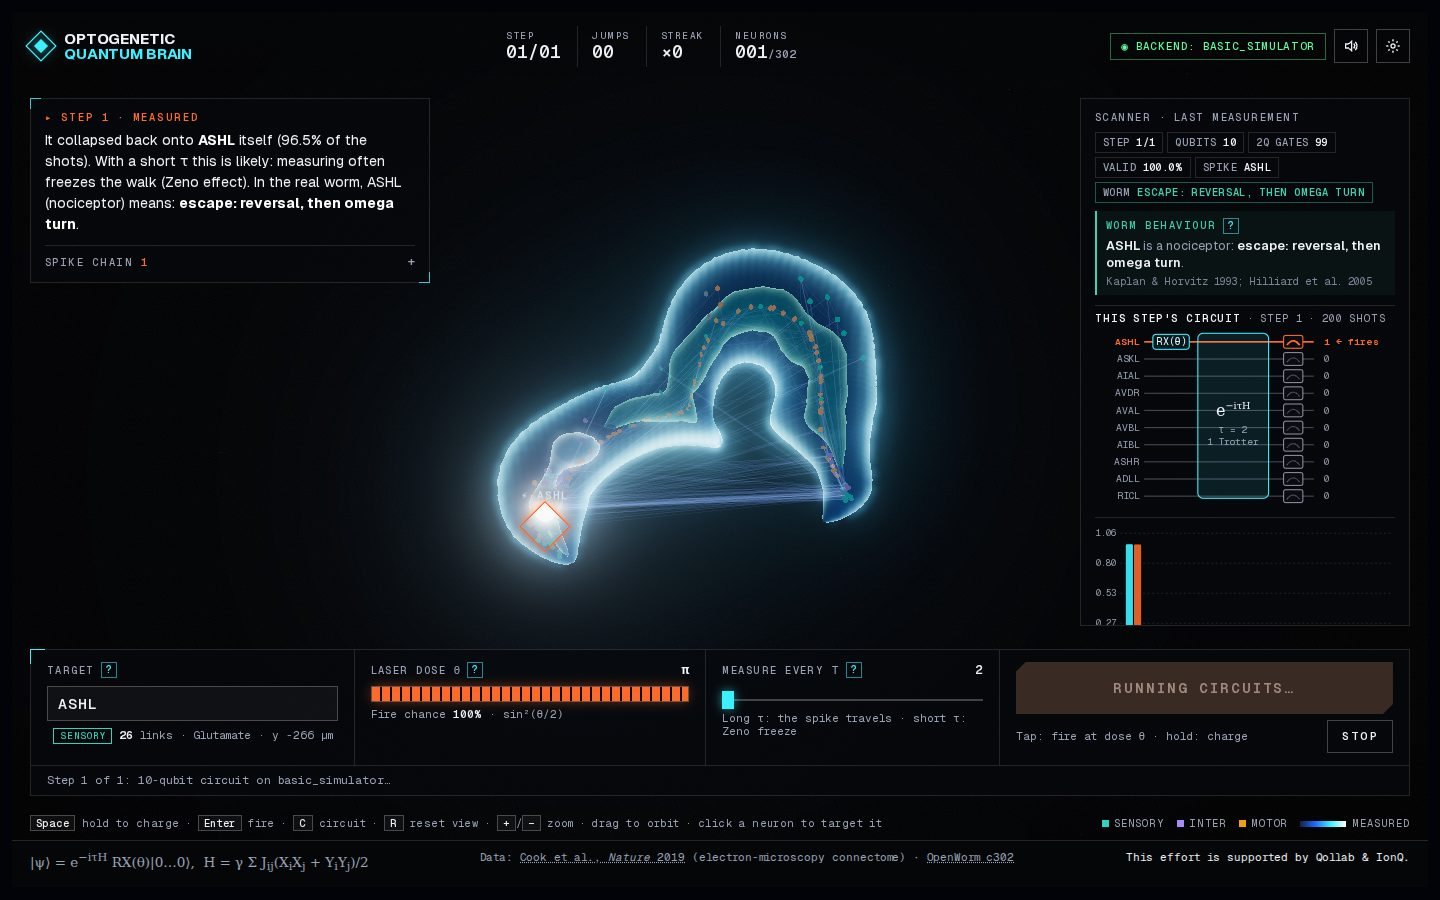
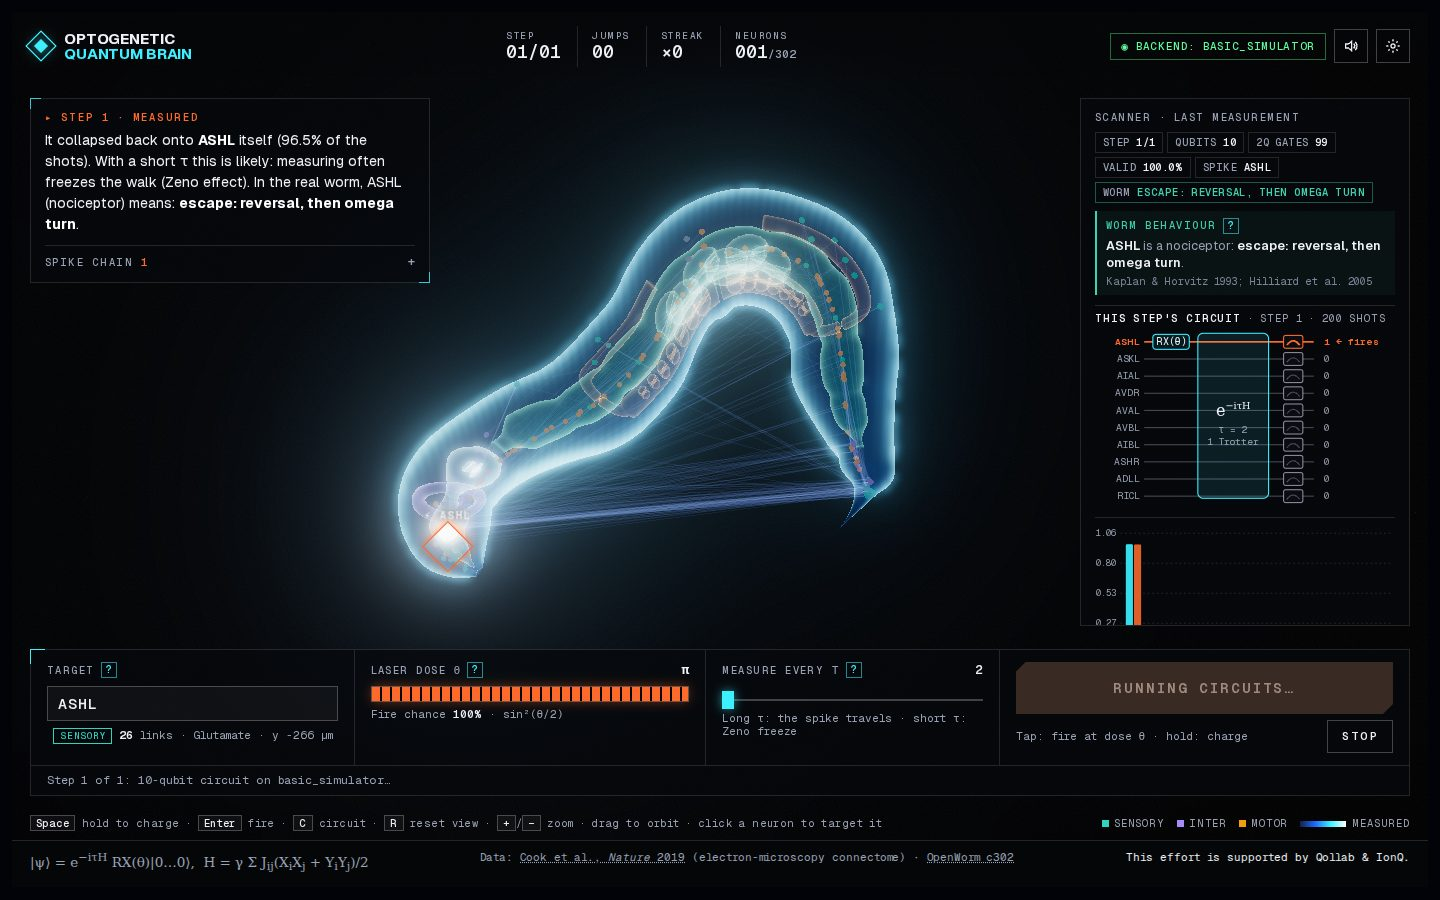
Card and docs: screenshots of the anatomical worm
Recaptured every card screenshot from the live app with the new Blender
model (title, briefing, HUD mid-cascade, inspector, ASHL escape), added
an anatomy close-up and a Blender X-ray diagram with an organ legend,
refreshed the alt texts, and embedded the images in worm-model.md and
3d-model.md. Progressive JPEG, 45-142 KB each.

Changed region(s): [[0.2188, 0.1556, 0.6562, 0.7156]]

diff --git a/PROJECT_CARD.md b/PROJECT_CARD.md
@@ -6,7 +6,7 @@ This effort is supported by Qollab & IonQ.
 
 🎬 **Demo video (2–3 min):** [add the public link] · 💻 **Code (MIT):** https://github.com/JoaquinQu/Cerebro-Cu-ntico-Optogenetico · 📖 **Full theory (Spanish):** [docs/theory.md](https://github.com/inaki-bermeo/Optogenetic-Quantum-Brain-/blob/main/docs/theory.md)
 
-![Title screen: "Optogenetic Quantum Brain" in large type over the live 3D worm, with a Press start prompt.](https://raw.githubusercontent.com/inaki-bermeo/Optogenetic-Quantum-Brain-/main/docs/card/hero.jpg)
+![Title screen: "Optogenetic Quantum Brain" in large type over the live 3D worm, an anatomical adult hermaphrodite with its pharynx, intestine and gonad glowing inside, and a Press start prompt.](https://raw.githubusercontent.com/inaki-bermeo/Optogenetic-Quantum-Brain-/main/docs/card/hero.jpg)
 
 ---
 
@@ -32,7 +32,7 @@ This effort is supported by Qollab & IonQ.
 
 ### The intro
 
-![Briefing beat 03 · Collapse: the camera close on the worm, an orange ring where the measured neuron fires, and the caption explaining the measurement.](https://raw.githubusercontent.com/inaki-bermeo/Optogenetic-Quantum-Brain-/main/docs/card/intro.jpg)
+![Briefing beat 03 · Collapse: the camera close on the worm, with the intestine, gonad arms and uterine eggs visible through the translucent body, and the caption explaining the measurement.](https://raw.githubusercontent.com/inaki-bermeo/Optogenetic-Quantum-Brain-/main/docs/card/intro.jpg)
 
 - **Boot.** A console types each real loading stage as it completes: the Python core, the connectome, the body mesh and the backend.
 - **Title.** The live worm orbits slowly behind the title.
@@ -44,7 +44,7 @@ This effort is supported by Qollab & IonQ.
 
 ### The lab HUD
 
-![The HUD mid-cascade: stats bar, mission log, the 3D worm with the measured window lit, the scanner with the step's circuit and theory-vs-measured bars, and the control deck.](https://raw.githubusercontent.com/inaki-bermeo/Optogenetic-Quantum-Brain-/main/docs/card/panel1.jpg)
+![The HUD mid-cascade: stats bar, mission log in superposition, a Quantum leap achievement, the anatomical worm with the measured window lit, and the scanner with the worm-behaviour box, the step's circuit and theory-vs-measured bars.](https://raw.githubusercontent.com/inaki-bermeo/Optogenetic-Quantum-Brain-/main/docs/card/panel1.jpg)
 
 - **Colour code.** Cyan means quantum (superposition, theory). Orange means measured (the spike, the laser). Yellow means real hardware.
 - **One circuit per step.** Each step builds a 10-qubit circuit around the neuron that just fired, runs it as one job, and measures all 10 qubits. One valid shot is picked at random, and the neuron that came out as 1 fires the next step.
@@ -59,6 +59,9 @@ This effort is supported by Qollab & IonQ.
   - *Long range*: the spike landed two synapses away;
   - *Reflex*, *Escape artist*, *First egg* and *Tug of war*: a touch neuron, ASH, an egg-laying neuron, or both forward and backward command neurons fired, and the worm reacted as the real one does (step 8).
 - **The worm** looks like a fluorescence micrograph of an adult hermaphrodite, built in Blender from the same midline as the 302 neurons (all of them sit inside it): six lips around the mouth, the pharynx with its two bulbs and grinder, the nerve ring, the segmented intestine, the U-shaped gonad arms with growing oocytes, embryos waiting in the uterus, the vulva and a whip-like tail. It crawls with a slow curvature wave that pauses while each circuit is measured.
+
+  ![Close-up of the worm at rest: the nerve ring around the pharynx isthmus, the terminal bulb with its grinder, the segmented intestine, a gonad arm with growing oocytes and embryos in the uterus, with the neurons as coloured dots.](https://raw.githubusercontent.com/inaki-bermeo/Optogenetic-Quantum-Brain-/main/docs/card/anatomy.jpg)
+
 - **The worm acts.** When the measured neuron has a known role in the real animal, the worm acts it out before the next step: AVA backs it up, AVB drives it forward, ASH triggers an escape with an omega turn, MC pumps the pharynx, HSN lays an egg, RIS makes it stop. A chip and the "Worm behaviour" box in the scanner name the behaviour and its references. Each behaviour has its own soft sound, and for local ones (head, a body segment, the pharynx, the vulva) the camera glides in for a moment and returns to your view. Neurons with no known direct effect leave the worm still (see step 8).
 - **Sound** (toggle in the top bar):
   - the laser charges with a rising tone and fires with a falling chirp;
@@ -195,7 +198,7 @@ The window is the neuron that fired plus its 9 neighbours with the most synapses
 
 ### 8. From spike to behaviour
 
-![The worm mid-escape after the cascade measured the nociceptor ASHL: the body curls ventrally into an omega turn, the mission log says what ASHL means in the real worm, and the scanner shows the "escape: reversal, then omega turn" chip with its references.](https://raw.githubusercontent.com/inaki-bermeo/Optogenetic-Quantum-Brain-/main/docs/card/behaviour.jpg)
+![The worm mid-escape after the cascade measured the nociceptor ASHL: the body and every organ inside curl ventrally into an omega turn, the camera frames the loop, the mission log says what ASHL means in the real worm, and the scanner shows the "escape: reversal, then omega turn" chip with its references.](https://raw.githubusercontent.com/inaki-bermeo/Optogenetic-Quantum-Brain-/main/docs/card/behaviour.jpg)
 
 **In plain words.** The cascade is our quantum model. What the worm then does is real biology: each neuron class is mapped to what experiments saw when those neurons were switched on with light or removed.
 

diff --git a/README.md b/README.md
@@ -6,7 +6,7 @@ This effort is supported by Qollab & IonQ.
 
 🎬 **Demo video (2–3 min):** [add the public link] · 💻 **Code (MIT):** https://github.com/JoaquinQu/Cerebro-Cu-ntico-Optogenetico · 📖 **Full theory (Spanish):** [docs/theory.md](https://github.com/inaki-bermeo/Optogenetic-Quantum-Brain-/blob/main/docs/theory.md)
 
-![Title screen: "Optogenetic Quantum Brain" in large type over the live 3D worm, with a Press start prompt.](https://raw.githubusercontent.com/inaki-bermeo/Optogenetic-Quantum-Brain-/main/docs/card/hero.jpg)
+![Title screen: "Optogenetic Quantum Brain" in large type over the live 3D worm, an anatomical adult hermaphrodite with its pharynx, intestine and gonad glowing inside, and a Press start prompt.](https://raw.githubusercontent.com/inaki-bermeo/Optogenetic-Quantum-Brain-/main/docs/card/hero.jpg)
 
 ---
 
@@ -32,7 +32,7 @@ This effort is supported by Qollab & IonQ.
 
 ### The intro
 
-![Briefing beat 03 · Collapse: the camera close on the worm, an orange ring where the measured neuron fires, and the caption explaining the measurement.](https://raw.githubusercontent.com/inaki-bermeo/Optogenetic-Quantum-Brain-/main/docs/card/intro.jpg)
+![Briefing beat 03 · Collapse: the camera close on the worm, with the intestine, gonad arms and uterine eggs visible through the translucent body, and the caption explaining the measurement.](https://raw.githubusercontent.com/inaki-bermeo/Optogenetic-Quantum-Brain-/main/docs/card/intro.jpg)
 
 - **Boot.** A console types each real loading stage as it completes: the Python core, the connectome, the body mesh and the backend.
 - **Title.** The live worm orbits slowly behind the title.
@@ -44,7 +44,7 @@ This effort is supported by Qollab & IonQ.
 
 ### The lab HUD
 
-![The HUD mid-cascade: stats bar, mission log, the 3D worm with the measured window lit, the scanner with the step's circuit and theory-vs-measured bars, and the control deck.](https://raw.githubusercontent.com/inaki-bermeo/Optogenetic-Quantum-Brain-/main/docs/card/panel1.jpg)
+![The HUD mid-cascade: stats bar, mission log in superposition, a Quantum leap achievement, the anatomical worm with the measured window lit, and the scanner with the worm-behaviour box, the step's circuit and theory-vs-measured bars.](https://raw.githubusercontent.com/inaki-bermeo/Optogenetic-Quantum-Brain-/main/docs/card/panel1.jpg)
 
 - **Colour code.** Cyan means quantum (superposition, theory). Orange means measured (the spike, the laser). Yellow means real hardware.
 - **One circuit per step.** Each step builds a 10-qubit circuit around the neuron that just fired, runs it as one job, and measures all 10 qubits. One valid shot is picked at random, and the neuron that came out as 1 fires the next step.
@@ -59,6 +59,9 @@ This effort is supported by Qollab & IonQ.
   - *Long range*: the spike landed two synapses away;
   - *Reflex*, *Escape artist*, *First egg* and *Tug of war*: a touch neuron, ASH, an egg-laying neuron, or both forward and backward command neurons fired, and the worm reacted as the real one does (step 8).
 - **The worm** looks like a fluorescence micrograph of an adult hermaphrodite, built in Blender from the same midline as the 302 neurons (all of them sit inside it): six lips around the mouth, the pharynx with its two bulbs and grinder, the nerve ring, the segmented intestine, the U-shaped gonad arms with growing oocytes, embryos waiting in the uterus, the vulva and a whip-like tail. It crawls with a slow curvature wave that pauses while each circuit is measured.
+
+  ![Close-up of the worm at rest: the nerve ring around the pharynx isthmus, the terminal bulb with its grinder, the segmented intestine, a gonad arm with growing oocytes and embryos in the uterus, with the neurons as coloured dots.](https://raw.githubusercontent.com/inaki-bermeo/Optogenetic-Quantum-Brain-/main/docs/card/anatomy.jpg)
+
 - **The worm acts.** When the measured neuron has a known role in the real animal, the worm acts it out before the next step: AVA backs it up, AVB drives it forward, ASH triggers an escape with an omega turn, MC pumps the pharynx, HSN lays an egg, RIS makes it stop. A chip and the "Worm behaviour" box in the scanner name the behaviour and its references. Each behaviour has its own soft sound, and for local ones (head, a body segment, the pharynx, the vulva) the camera glides in for a moment and returns to your view. Neurons with no known direct effect leave the worm still (see step 8).
 - **Sound** (toggle in the top bar):
   - the laser charges with a rising tone and fires with a falling chirp;
@@ -195,7 +198,7 @@ The window is the neuron that fired plus its 9 neighbours with the most synapses
 
 ### 8. From spike to behaviour
 
-![The worm mid-escape after the cascade measured the nociceptor ASHL: the body curls ventrally into an omega turn, the mission log says what ASHL means in the real worm, and the scanner shows the "escape: reversal, then omega turn" chip with its references.](https://raw.githubusercontent.com/inaki-bermeo/Optogenetic-Quantum-Brain-/main/docs/card/behaviour.jpg)
+![The worm mid-escape after the cascade measured the nociceptor ASHL: the body and every organ inside curl ventrally into an omega turn, the camera frames the loop, the mission log says what ASHL means in the real worm, and the scanner shows the "escape: reversal, then omega turn" chip with its references.](https://raw.githubusercontent.com/inaki-bermeo/Optogenetic-Quantum-Brain-/main/docs/card/behaviour.jpg)
 
 **In plain words.** The cascade is our quantum model. What the worm then does is real biology: each neuron class is mapped to what experiments saw when those neurons were switched on with light or removed.
 

diff --git a/docs/worm-model.md b/docs/worm-model.md
@@ -19,6 +19,10 @@ WormBook (Altun & Hall, *Hermaphrodite anatomy*).
 | Gonad (`Gonada`) | Two U-shaped arms. Each runs ventrally away from the vulva, turns dorsally and comes back, with oocytes that grow toward the spermatheca. |
 | Eggs (`Huevos`) | Six embryos (about 45 × 27 µm) waiting in the uterus beside the vulva. The egg laid by the "egg laying" behaviour leaves from there. |
 
+![The Blender model in X-ray, side view: cuticle, pharynx with grinder, nerve ring, intestine, U-shaped gonad arms with oocytes and embryos, each in its own colour.](card/anatomy-blender.jpg)
+
+![The same model in the app: close-up of the nerve ring, terminal bulb with grinder, intestine, gonad arm with oocytes and uterine eggs.](card/anatomy.jpg)
+
 Everything is built from the same midline as the cloud of 302 neuron cell bodies, so **all 302 somas are inside the
 body**. The previous body contained 301.
 
@@ -46,6 +50,8 @@ body**. The previous body contained 301.
 - `WormScene.deform()` reads the same table on the CPU, so picking a neuron, its label and the camera flights always
   match what is drawn.
 - The texture is only re-uploaded on frames where something moves.
+
+![The omega turn after a real cascade from ASHL: body and organs curl together into a ventral loop.](card/behaviour.jpg)
 
 ## Files
 

diff --git a/docs/3d-model.md b/docs/3d-model.md
@@ -32,6 +32,8 @@ python tools/optimize_glb.py        # quita normales e índices de 32 bits si lo
 
 ## Anatomía (hermafrodita adulto, el sexo del conectoma de Cook 2019)
 
+![Vista lateral del modelo en rayos X (Blender), con cada órgano en su color.](card/anatomy-blender.jpg)
+
 Proporciones estilizadas a partir de WormAtlas / WormBook (Altun & Hall, *Hermaphrodite anatomy*). Todo sigue la misma línea media que la nube de somas, así que los 302 somas quedan dentro del cuerpo y una sola cinemática dobla cuerpo, órganos y neuronas.
 
 - **Cuerpo:** postura del modelo de OpenWorm; nariz redondeada con **6 labios** alrededor de la boca; radio anatómico (máximo ~40 µm) o el necesario para contener los somas; **alas laterales** (crestas de la cutícula a los costados); **vulva** ventral a mitad del cuerpo (hendidura con labios); **ano** ventral (~88 % del largo) y **cola post-anal** que se afina en un látigo; **poro excretor** ventral junto al bulbo terminal. Los anillos de la cutícula los dibuja el shader.
